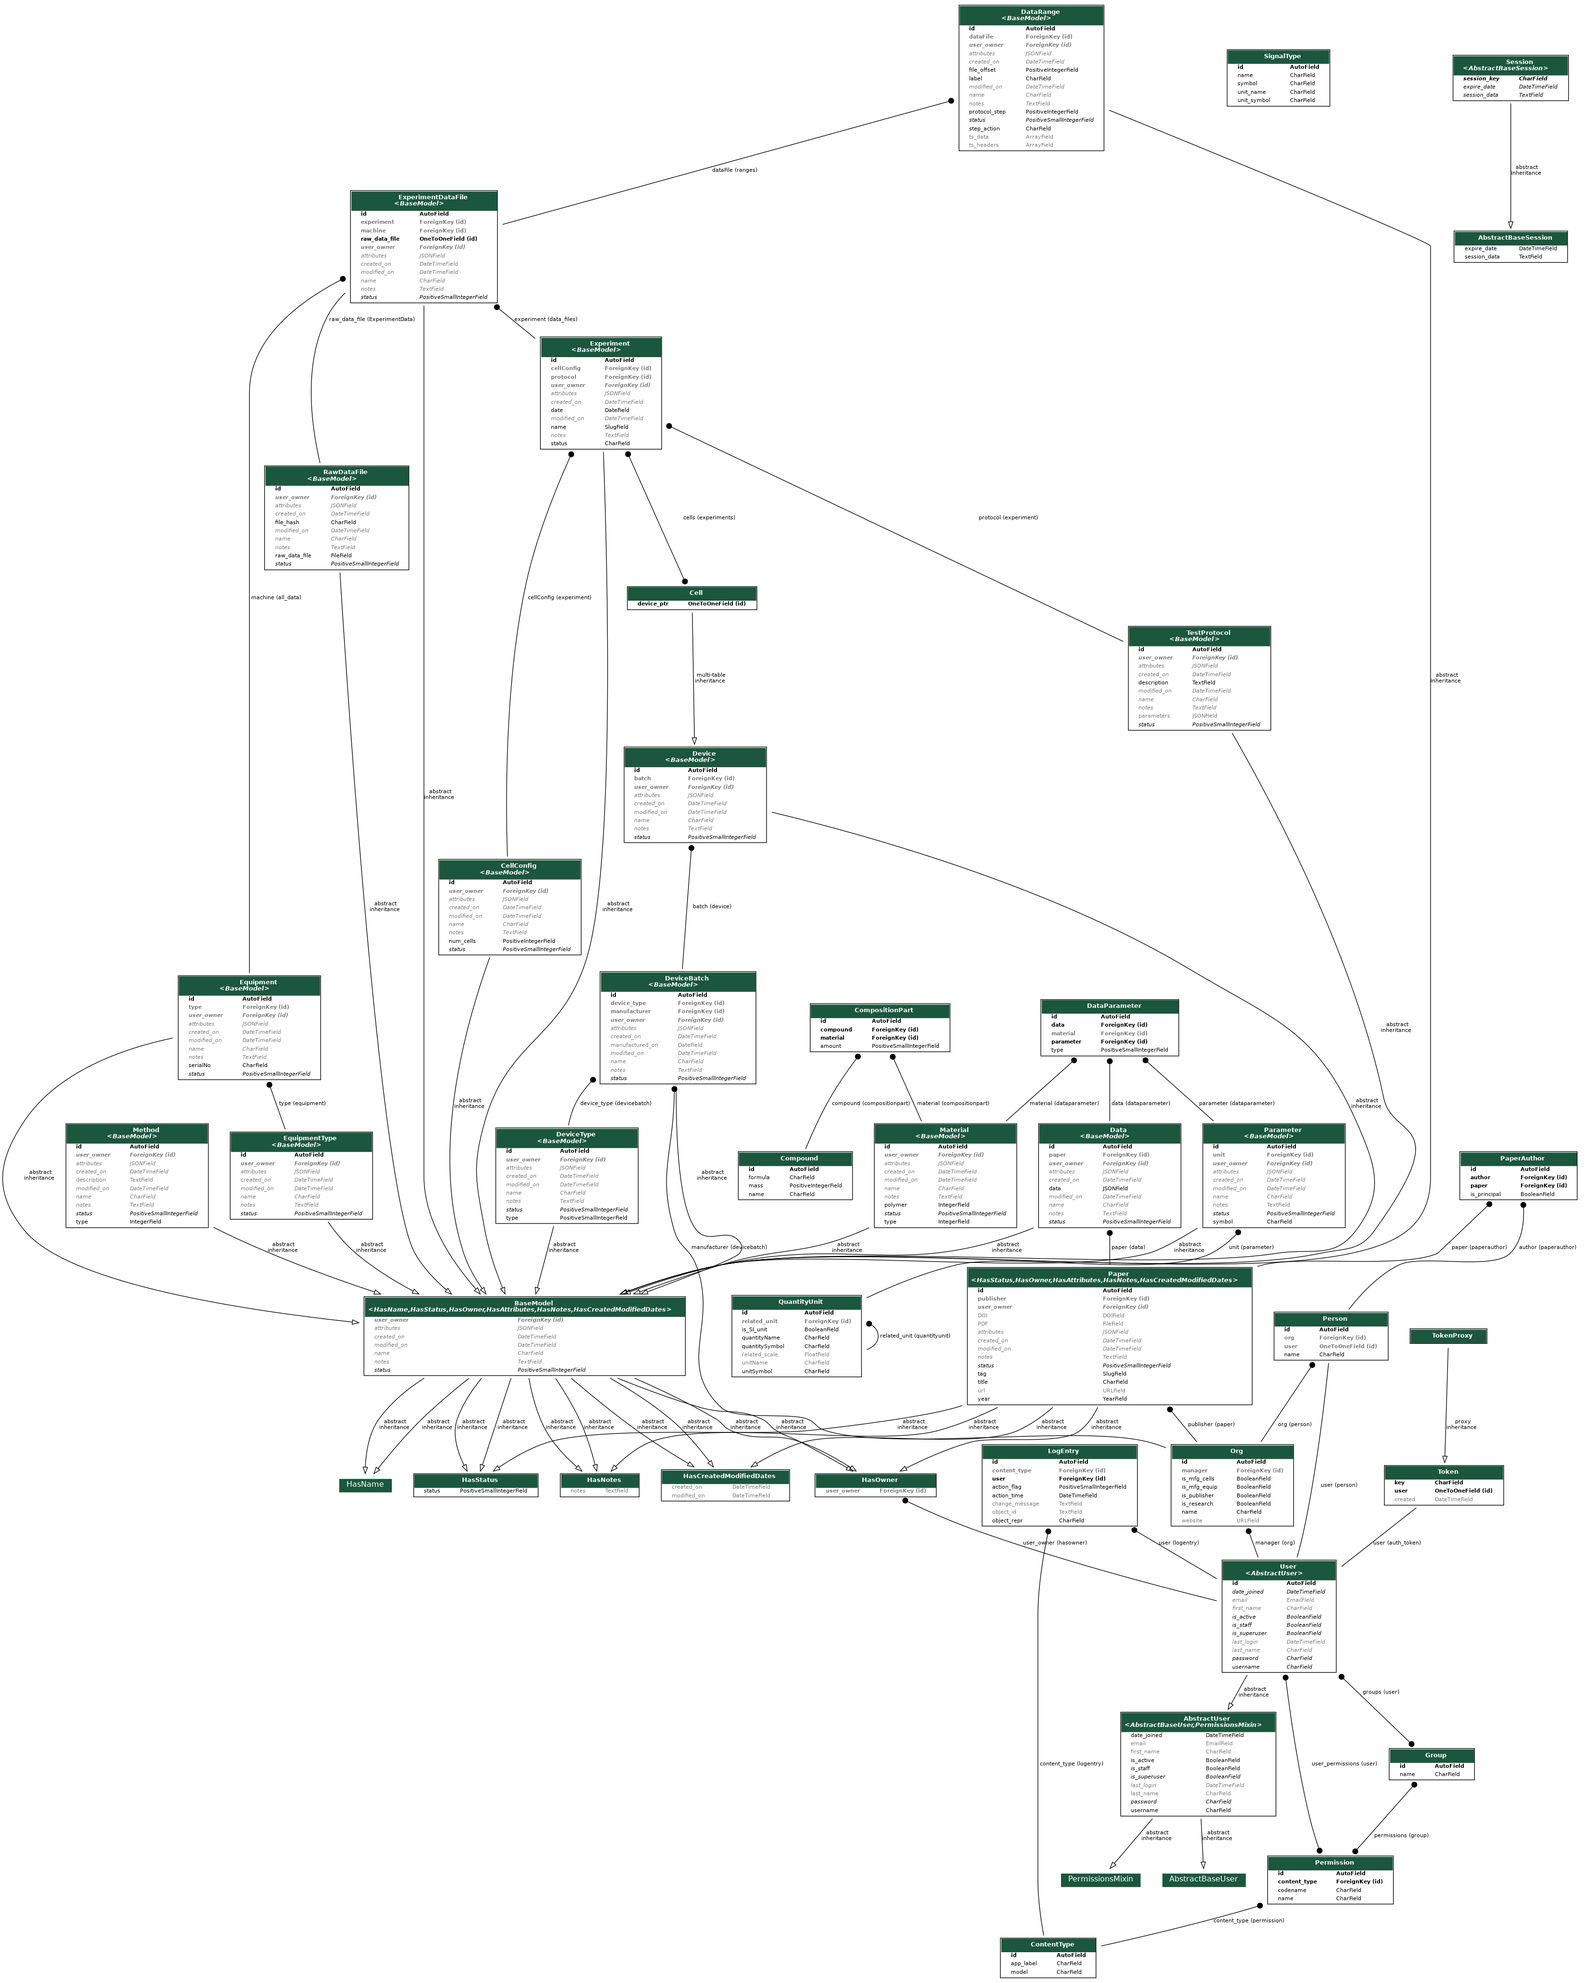
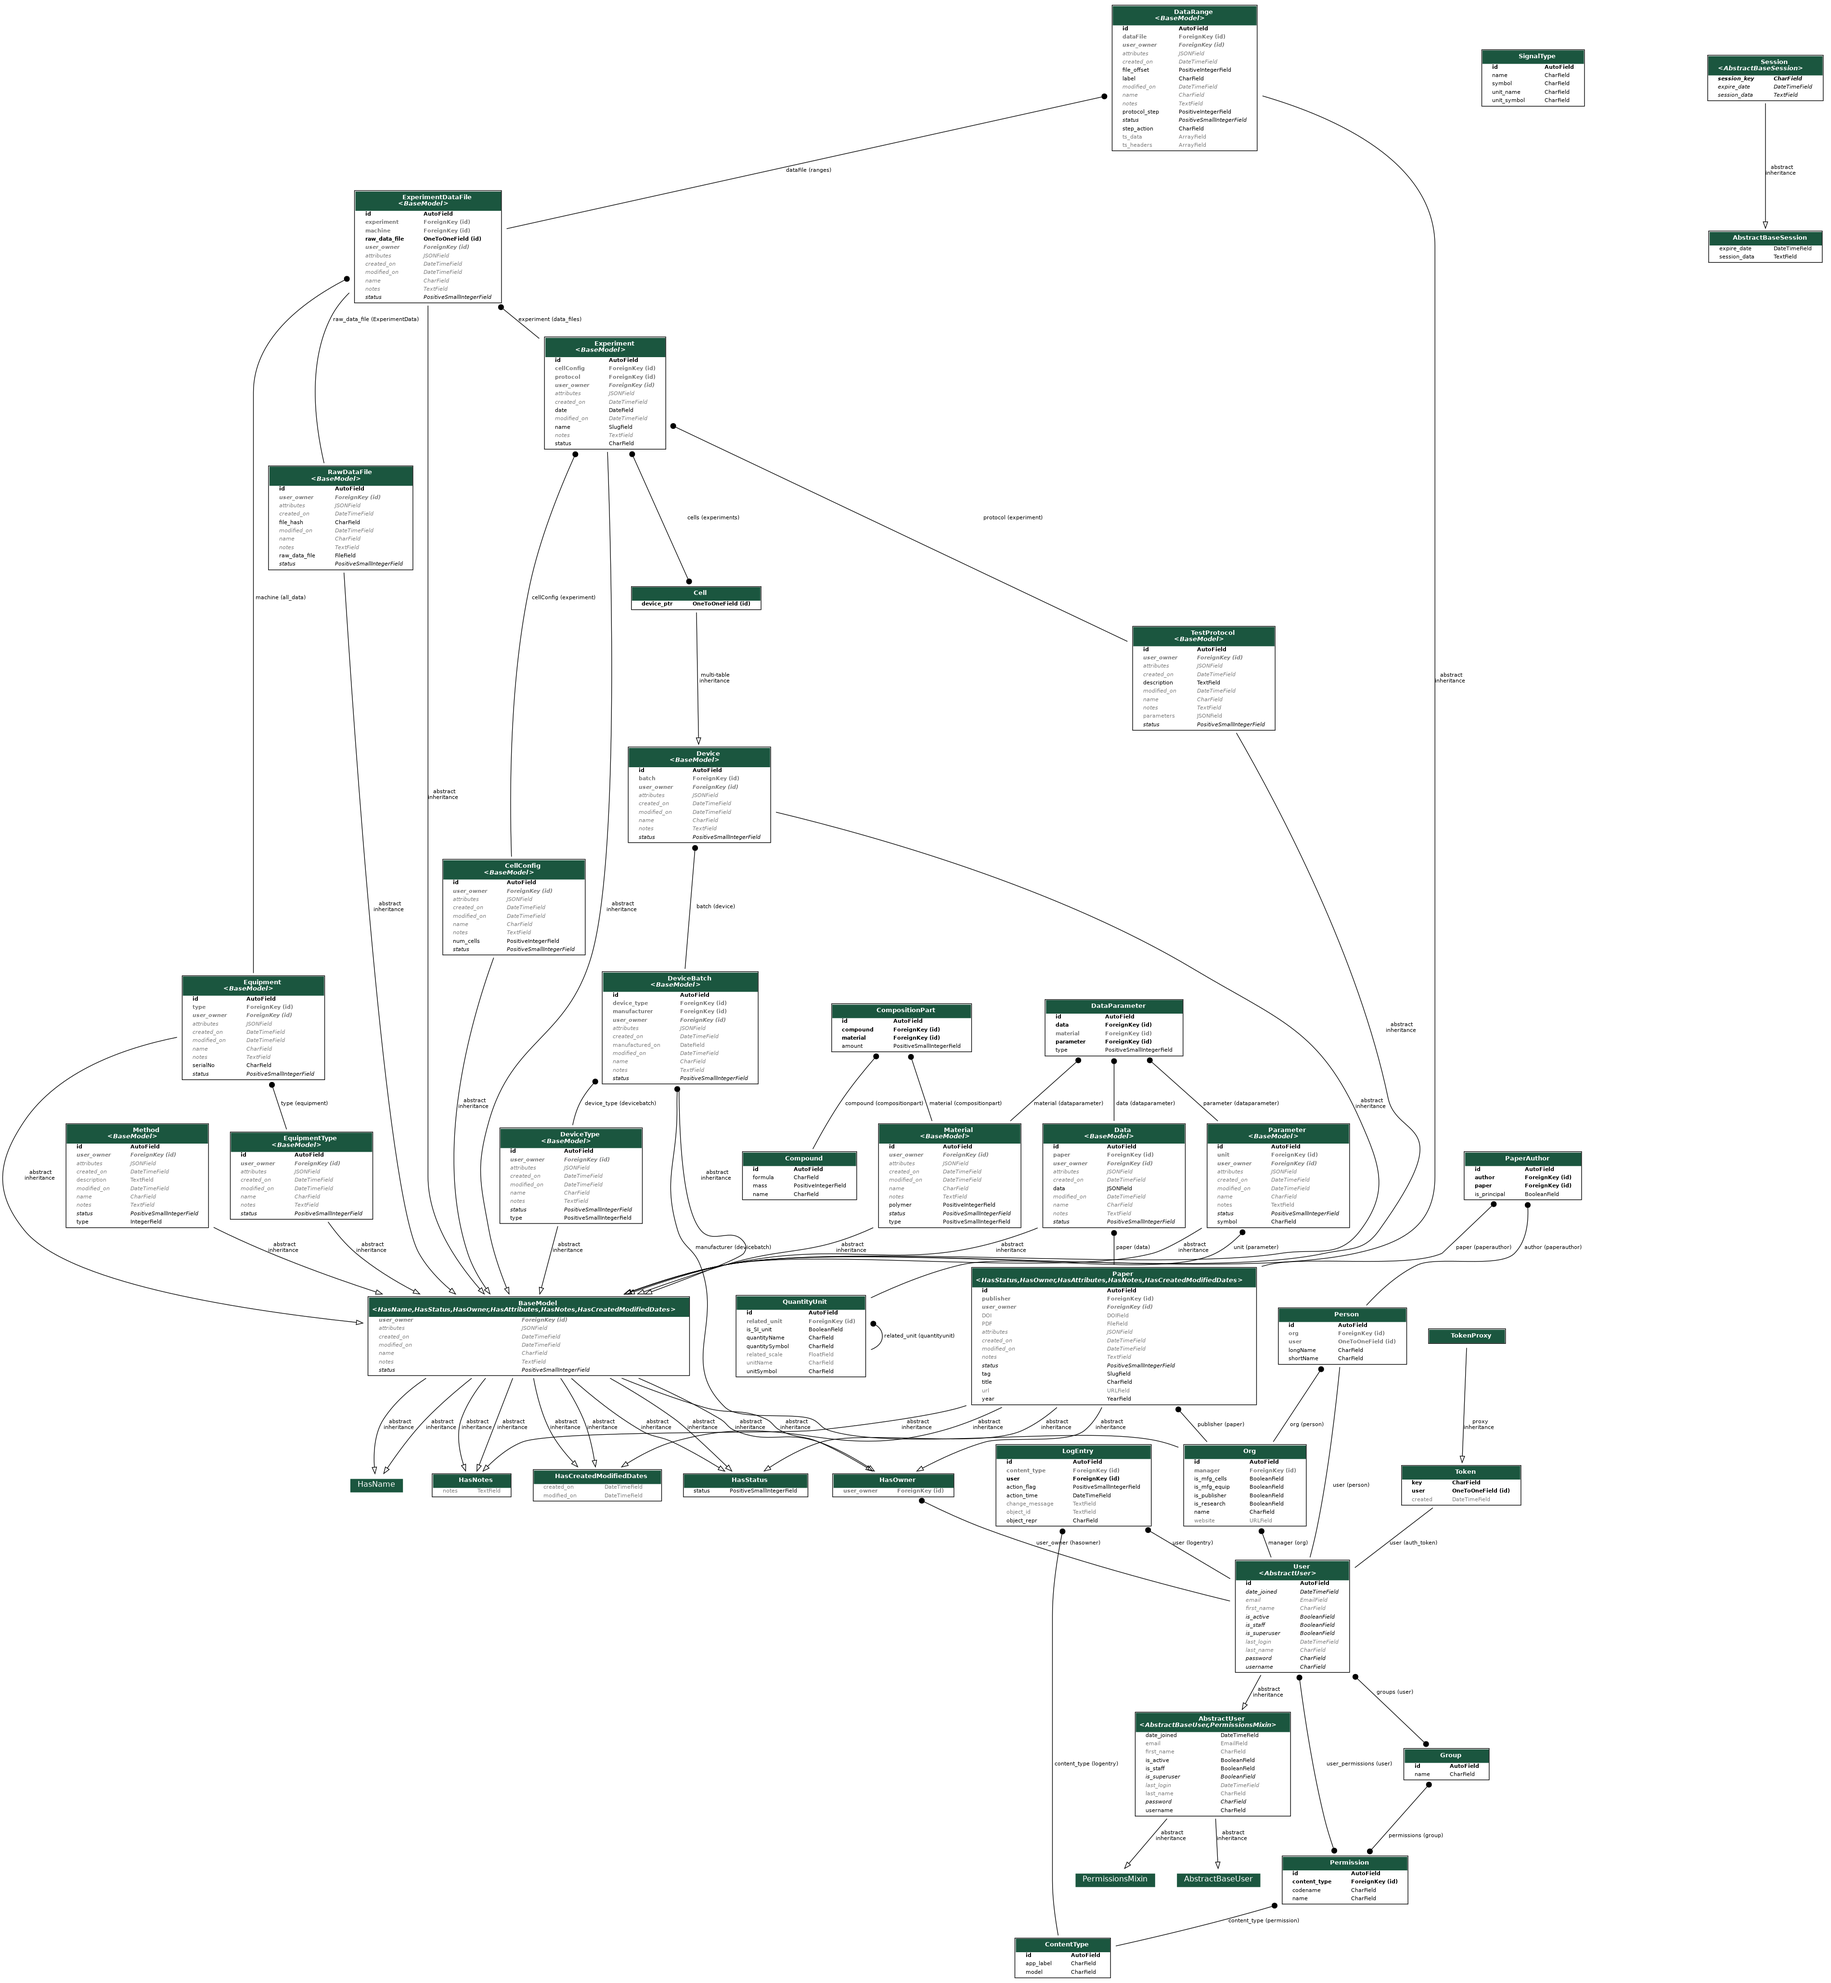
DB backup

diff --git a/django-battdb/common/migrations/0024_auto_20201016_1354.py b/django-battdb/common/migrations/0024_auto_20201016_1354.py
@@ -1,0 +1,35 @@
+# Generated by Django 3.1.2 on 2020-10-16 13:54
+
+from django.db import migrations, models
+import django.db.models.deletion
+
+
+class Migration(migrations.Migration):
+
+    dependencies = [
+        ('common', '0023_auto_20201016_1219'),
+    ]
+
+    operations = [
+        migrations.RemoveField(
+            model_name='person',
+            name='name',
+        ),
+        migrations.AddField(
+            model_name='person',
+            name='longName',
+            field=models.CharField(default='nobby', help_text="Person's full name e.g. David Wallace Jones", max_length=128, unique=True),
+            preserve_default=False,
+        ),
+        migrations.AddField(
+            model_name='person',
+            name='shortName',
+            field=models.CharField(default='n', help_text="Person's shortened name e.g. 'D.W. Jones'", max_length=128, unique=True),
+            preserve_default=False,
+        ),
+        migrations.AlterField(
+            model_name='person',
+            name='org',
+            field=models.ForeignKey(blank=True, help_text='Organisation that this user belongs to', null=True, on_delete=django.db.models.deletion.SET_NULL, to='common.org'),
+        ),
+    ]

diff --git a/django-battdb/dfndb/migrations/0024_auto_20201016_1354.py b/django-battdb/dfndb/migrations/0024_auto_20201016_1354.py
@@ -1,0 +1,24 @@
+# Generated by Django 3.1.2 on 2020-10-16 13:54
+
+from django.db import migrations, models
+import django.db.models.deletion
+
+
+class Migration(migrations.Migration):
+
+    dependencies = [
+        ('dfndb', '0023_auto_20201016_1245'),
+    ]
+
+    operations = [
+        migrations.AlterField(
+            model_name='quantityunit',
+            name='related_scale',
+            field=models.FloatField(blank=True, help_text='Scaling of this unit from the SI unit', null=True),
+        ),
+        migrations.AlterField(
+            model_name='quantityunit',
+            name='related_unit',
+            field=models.ForeignKey(blank=True, help_text='If this unit is NOT an SI unit, it should relate to one', limit_choices_to={'is_SI_unit': True}, null=True, on_delete=django.db.models.deletion.SET_NULL, to='dfndb.quantityunit'),
+        ),
+    ]

diff --git a/django-battdb/dfndb/migrations/0025_auto_20201016_1404.py b/django-battdb/dfndb/migrations/0025_auto_20201016_1404.py
@@ -1,0 +1,23 @@
+# Generated by Django 3.1.2 on 2020-10-16 14:04
+
+from django.db import migrations, models
+
+
+class Migration(migrations.Migration):
+
+    dependencies = [
+        ('dfndb', '0024_auto_20201016_1354'),
+    ]
+
+    operations = [
+        migrations.AlterField(
+            model_name='material',
+            name='polymer',
+            field=models.PositiveIntegerField(default=0, help_text='If this material is a polymer, enter degree of polymerization'),
+        ),
+        migrations.AlterField(
+            model_name='material',
+            name='type',
+            field=models.PositiveSmallIntegerField(choices=[(1, 'Anode'), (2, 'Cathode'), (3, 'Electrolyte'), (4, 'Separator')]),
+        ),
+    ]

diff --git a/django-battdb/dfndb/models.py b/django-battdb/dfndb/models.py
@@ -70,6 +70,9 @@ class CompositionPart(models.Model):
 
 
 class Method(cm.BaseModel):
+    """
+    A
+    """
     # what does the 'method class' do??
     # in any case it's a bad idea to have something called class, it gets confusing
     # Using 'choices' will cause Django to use multiple choice validators & drop down menus
@@ -79,7 +82,7 @@ class Method(cm.BaseModel):
         (2, 'Modelling'),
     ]
     type = models.IntegerField(choices=METHOD_TYPE_CHOICES)
-    description = models.TextField(blank=True)
+    description = models.TextField(blank=True, help_text="Method description in PyBaMM format")
 
 
 class QuantityUnit(models.Model):

diff --git a/django-battdb/common/migrations/0025_auto_20201016_1404.py b/django-battdb/common/migrations/0025_auto_20201016_1404.py
@@ -1,0 +1,19 @@
+# Generated by Django 3.1.2 on 2020-10-16 14:04
+
+from django.db import migrations, models
+import django.db.models.deletion
+
+
+class Migration(migrations.Migration):
+
+    dependencies = [
+        ('common', '0024_auto_20201016_1354'),
+    ]
+
+    operations = [
+        migrations.AlterField(
+            model_name='person',
+            name='org',
+            field=models.ForeignKey(blank=True, help_text='Organisation that this person belongs to', null=True, on_delete=django.db.models.deletion.SET_NULL, to='common.org'),
+        ),
+    ]
